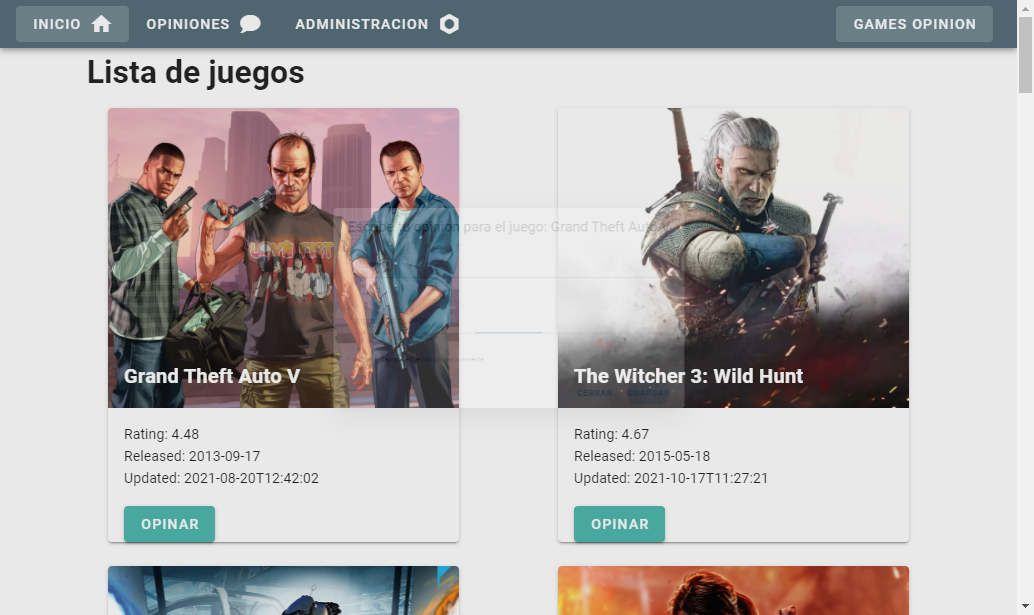
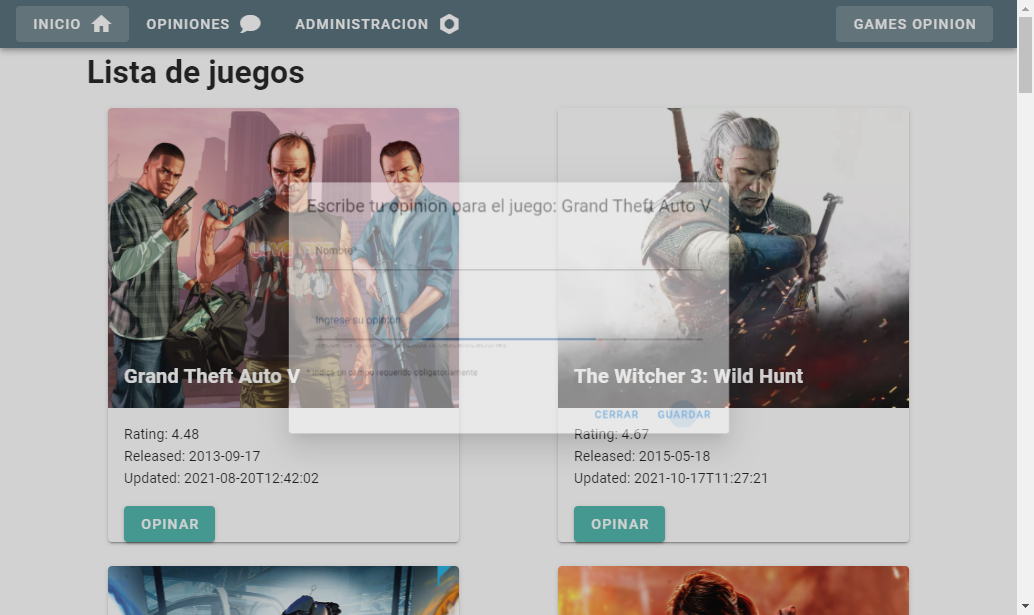
commit con localstorage incluido

Changed region(s): [[0.2476, 0.2472, 0.7427, 0.7724]]

diff --git a/src/components/Card.vue b/src/components/Card.vue
@@ -102,6 +102,7 @@
   </v-container>
 </template>
 
+
 <script>
 import { mapState } from "vuex";
 export default {
@@ -111,26 +112,15 @@ export default {
       nombreJuegoTemporal: "",
       mensajeModal: "",
       formLocal: {
-        juego: "unjuego",
-        nombre: "unnombre",
-        opinion: "unaopinion",
+        juego: "",
+        nombre: "",
+        opinion: "",
       },
       dialog: false,
     };
   },
   computed: {
     ...mapState(["juegos", "opinion", "loading"]),
-  },
-  mounted() {
-    if (localStorage.juego) {
-      this.formLocal.juego = localStorage.juego;
-    }
-    if (localStorage.nombre) {
-      this.formLocal.nombre = localStorage.nombre;
-    }
-    if (localStorage.opinion) {
-      this.formLocal.opinion = localStorage.opinion;
-    }
   },
   methods: {
     showModal(nombreJuego) {
@@ -154,19 +144,19 @@ export default {
       let miOpinion = this.formLocal;
       console.log(JSON.stringify(miOpinion));
 
-      let elNombreJuego = localStorage.juego;
+      let elNombreJuego = this.formLocal.juego;
       console.log(elNombreJuego);
 
-      let elNombreAutor = localStorage.nombre;
+      let elNombreAutor = this.formLocal.nombre;
       console.log(elNombreAutor);
 
-      let laOpinion = localStorage.opinion;
+      let laOpinion = this.formLocal.opinion;
       console.log(laOpinion);
 
       let enviarOpinion = {
-        juego: localStorage.juego,
-        nombre: localStorage.nombre,
-        opinion: localStorage.opinion,
+        juego: elNombreJuego,
+        nombre: elNombreAutor,
+        opinion: laOpinion,
       };
       this.$store.dispatch("agregarOpinion", enviarOpinion);
       console.log("se envian datos de la opinion");

diff --git a/src/store/index.js b/src/store/index.js
@@ -4,10 +4,13 @@ import axios from "axios";
 
 Vue.use(Vuex);
 
+var opiniones = window.localStorage.getItem("opiniones") ?
+    JSON.parse(window.localStorage.getItem("opiniones")) : [];
+
 export default new Vuex.Store({
     state: {
         juegos: [],
-        opiniones: [],
+        opiniones: opiniones,
         loading: false,
         opinion: {
             juego: '',
@@ -26,12 +29,15 @@ export default new Vuex.Store({
         },
         AGREGAROPINION(state, laOpinion) {
             state.opiniones.push(laOpinion);
+            window.localStorage.setItem("opinions", JSON.stringify(state.opiniones));
         },
         AGREGARFORMNOMBRE(state, unNombre) {
             state.opinion.nombre = unNombre;
+            window.localStorage.setItem("names", JSON.stringify(state.nombre));
         },
         ELIMINAROPINION(state, id) {
             state.opiniones.splice(id, 1);
+            window.localStorage.setItem("opinions", JSON.stringify(state.opiniones));
             alert('Elemento eliminado exitosamente');
         },
         EDITAROPINION(state, cargaUtil) {
@@ -64,6 +70,9 @@ export default new Vuex.Store({
             console.log('editarOpinion')
             console.log('carga util: ', cargaUtil);
             context.commit('EDITAROPINION', cargaUtil);
+        },
+        getOpiniones(context, opiniones) {
+            return context.state.opiniones;
         }
     },
     modules: {},

diff --git a/tests/e2e/specs/test.js b/tests/e2e/specs/test.js
@@ -1,7 +1,7 @@
 // For authoring Nightwatch tests, see
 // https://nightwatchjs.org/guide
 
-const rutaAdministracion = 'http://localhost:8080/administracion';
+
 
 module.exports = {
     'testing home component title': browser => {
@@ -31,9 +31,19 @@ module.exports = {
             .saveScreenshot('./reports/filledFields.png')
             .click('#submitOpinion')
             .saveScreenshot('./reports/submitForm.png')
-            .url(process.env.this.rutaAdministracion)
+            .url('http://localhost:8080/administracion')
             .click('#botonEditar')
             .saveScreenshot('./reports/availabilityOpinion.png')
             .end()
     },
+    /*
+        'testing opinion availability in administracion component': browser => {
+            browser
+                .init()
+                .url('http://localhost:8080/administracion')
+                .click('#botonEditar')
+                .saveScreenshot('./reports/availabilityOpinion.png')
+                .end()
+        },
+    */
 }
